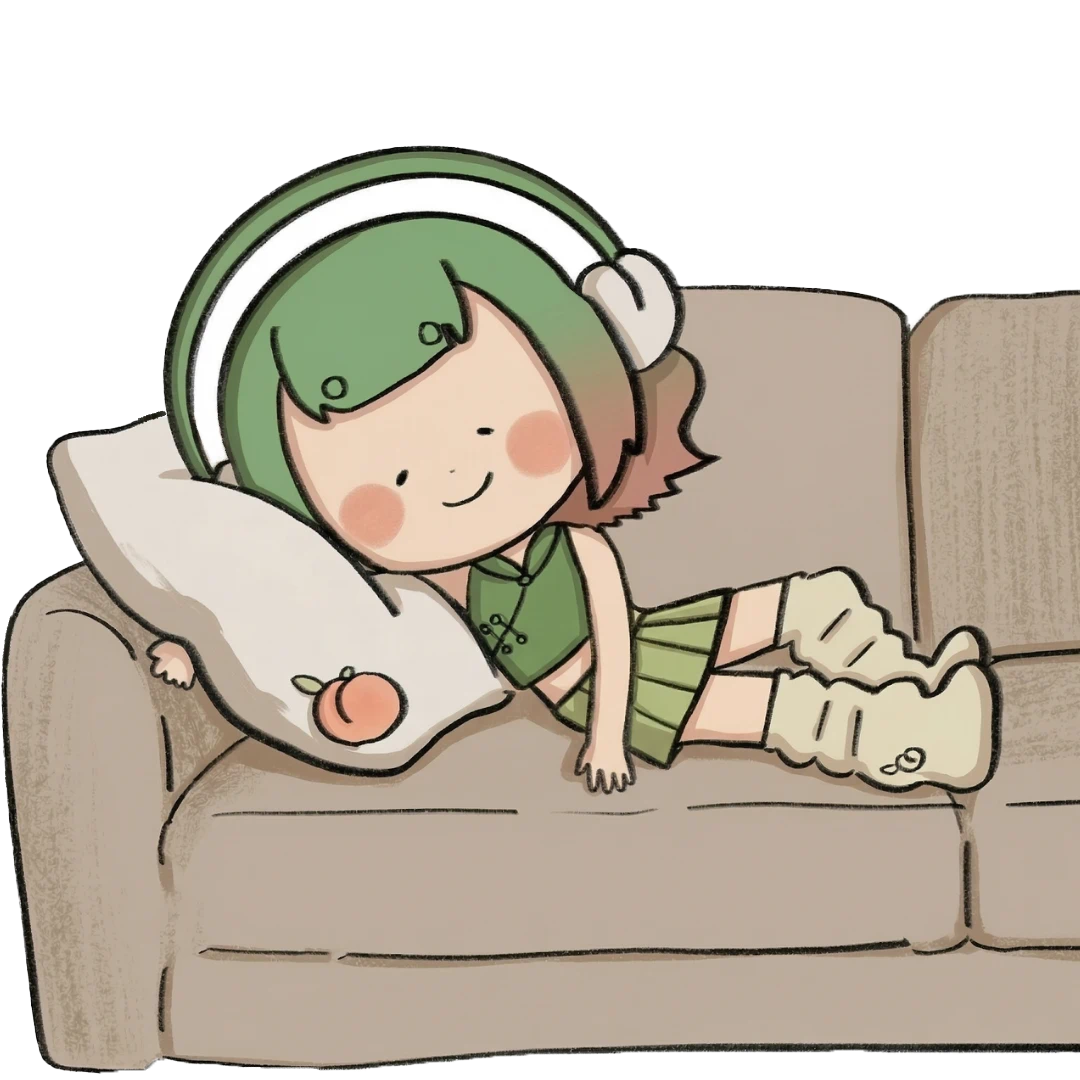
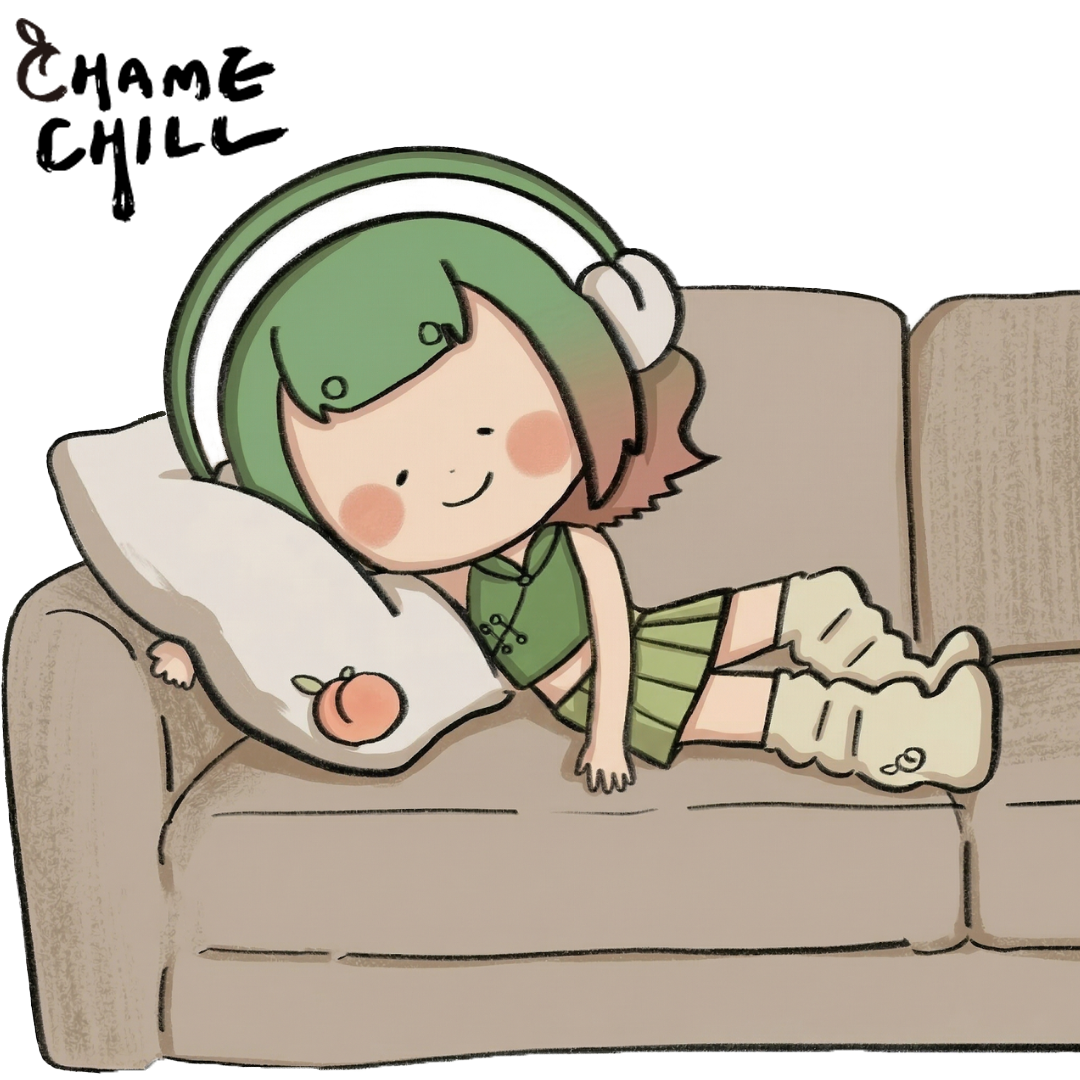
修改文案

Changed region(s): [[0.0, 0.0, 0.275, 0.2139]]

diff --git a/src/App.vue b/src/App.vue
@@ -22,7 +22,7 @@
         </div>
         <div class="cover-content">
           <h1 class="main-title">尋找你的微醺精靈</h1>
-          <p>探尋內心深處的靈魂，調製專屬於你的特調</p>
+          <p>探尋你的內心深處，找到你專屬的微醺精靈!</p>
           <button @click="handleOpenAgeModal" class="btn btn-start-game" :class="{ 'skip-intro': hasWatchedIntro }">
   開始測驗
 </button>
@@ -62,7 +62,7 @@
         </div>
         <p class="loading-text">
           <span 
-            v-for="(char, index) in '茶梅妹正在為你調配命定酒款...'" 
+            v-for="(char, index) in '茶梅妹正在搖製命定酒款，召喚你的微醺精靈...'" 
             :key="index" 
             :style="{ 'animation-delay': `${index * 0.15}s` }"
           >
@@ -72,15 +72,15 @@
       </div>
 
       <div v-else-if="step === 'result'" class="card result-card" ref="resultCardRef">
-        <p class="result-pre">你的微醺人格是</p>
-        <h2 class="result-title">{{ resultData.title }}</h2>
+        <p class="result-pre">你的微醺精靈是</p>
+        <h2 class="result-title">✨ {{ resultData.title }} ✨</h2>
         
-        <div class="result-visual">
-          <img :src="resultData.image" :alt="resultData.animal" class="spirit-image">
-        </div>
+       <div class="result-visual">
+        <img :src="resultData.image" :alt="resultData.title" class="spirit-image">
+       </div>
 
-        <div class="spirit-animal">✨ {{ resultData.animal }} ✨</div>
-        <p class="description">{{ resultData.desc }}</p>
+       <p class="description">{{ resultData.desc }}</p>
+
         <div class="guide">
           <strong>🍸 微醺指南：</strong><br>{{ resultData.guide }}
         </div>
@@ -208,11 +208,11 @@ const questions = [
 // 5. 結果判定
 const resultData = computed(() => {
   const s = totalScore.value
-  if (s <= 10) return { title: "合法擺爛型", animal: "穿山甲精靈", image: img1, desc: "你極度需要合法擺爛！面對高壓的世界，只想把自己捲成一顆球，把吵鬧都擋在外面。對你來說，最好的放鬆就是切斷與世界的連結。", guide: "來一杯「熷茶梅酒」，讓溫潤的底蘊陪伴你合法擺爛!" }
-  if (s <= 14) return { title: "自由獨享型", animal: "白面鼯鼠精靈", image: img2, desc: "你極度渴望 Me Time！你喜歡在自己的空間裡獨處，在深夜裡思緒像在山林間自由滑翔。微醺對你來說，是清空腦袋資訊垃圾、沉澱內心的必要儀式。", guide: "深夜的 Me Time，有「凍頂烏龍茶梅酒」的陪伴，讓思緒像在山林間自由滑翔! " }
-  if (s <= 17) return { title: "踏實成就型", animal: "白鼻心精靈", image: img3, desc: "你能在高壓中尋求踏實成就感！你認命且負責，總是能把任務進度條推到 100%。你最享受的，就是完成艱難任務後，慵懶趴在桌上體會的那份微小而扎實的成就感。", guide: "達成任務最需要慶祝，用「蜜香紅烏龍茶梅酒」犒賞剛完成進度條的自己吧! " }
-  if (s <= 21) return { title: "質感審美型", animal: "石虎精靈", image: img4, desc: "你具備極高的審美自信！你不想在人群中顯得平庸，透過質感小物能讓你找回對生活的驕傲與自信。", guide: "審美與質感，是你的生活驕傲，如同「東方美人茶梅酒」的芬芳，優雅而不流俗。" }
-  return { title: "群居悶騷型", animal: "台灣藍鵲精靈", image: img5, desc: "你極度需要群居歸屬感，而且超級悶騷！表面可能裝作淡定，內心很需要他人的陪伴與認同，微醺是你轉開真心話的鑰匙。", guide: "「玉香綠茶梅酒」是幫你轉開真心話的最佳幫手!" }
+  if (s <= 10) return { title: "穿山甲精靈", image: img1, desc: "你極度需要合法擺爛！面對高壓的世界，只想把自己捲成一顆球，把吵鬧都擋在外面。對你來說，最好的放鬆就是切斷與世界的連結。", guide: "來一杯「熷茶梅酒」，讓溫潤的底蘊陪伴你合法擺爛!" }
+  if (s <= 14) return { title: "白面鼯鼠精靈", image: img2, desc: "你極度渴望 Me Time！你喜歡在自己的空間裡獨處，在深夜裡思緒像在山林間自由滑翔。微醺對你來說，是清空腦袋資訊垃圾、沉澱內心的必要儀式。", guide: "深夜的 Me Time，有「凍頂烏龍茶梅酒」的陪伴，讓思緒像在山林間自由滑翔! " }
+  if (s <= 17) return { title: "白鼻心精靈", image: img3, desc: "你能在高壓中尋求踏實成就感！你認命且負責，總是能把任務進度條推到 100%。你最享受的，就是完成艱難任務後，慵懶趴在桌上體會的那份微小而扎實的成就感。", guide: "達成任務最需要慶祝，用「蜜香紅烏龍茶梅酒」犒賞剛完成進度條的自己吧! " }
+  if (s <= 21) return { title: "石虎精靈", image: img4, desc: "你具備極高的審美自信！你不想在人群中顯得平庸，透過質感小物能讓你找回對生活的驕傲與自信。", guide: "審美與質感，是你的生活驕傲，如同「東方美人茶梅酒」的芬芳，優雅而不流俗。" }
+  return { title: "台灣藍鵲精靈", image: img5, desc: "你極度需要群居歸屬感，而且超級悶騷！表面可能裝作淡定，內心很需要他人的陪伴與認同，微醺是你轉開真心話的鑰匙。", guide: "「玉香綠茶梅酒」是幫你轉開真心話的最佳幫手!" }
 })
 
 // 6. 結果圖下載
